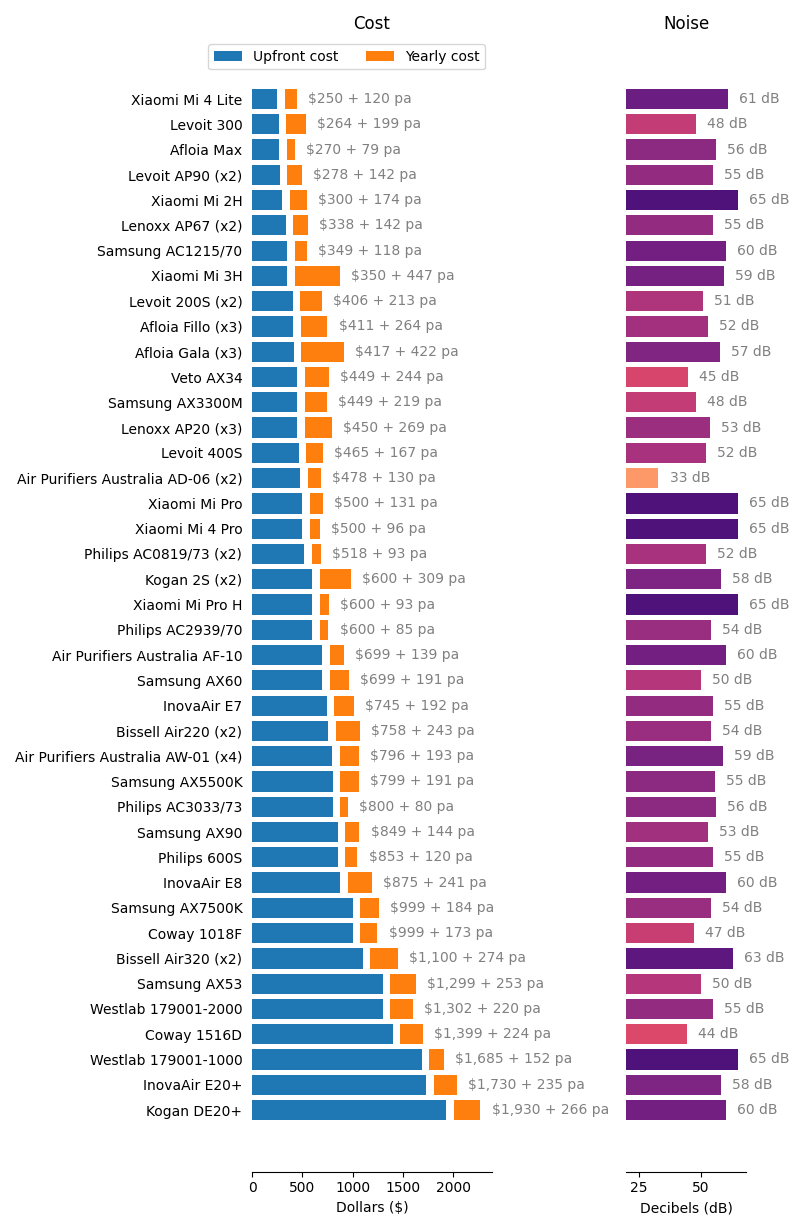
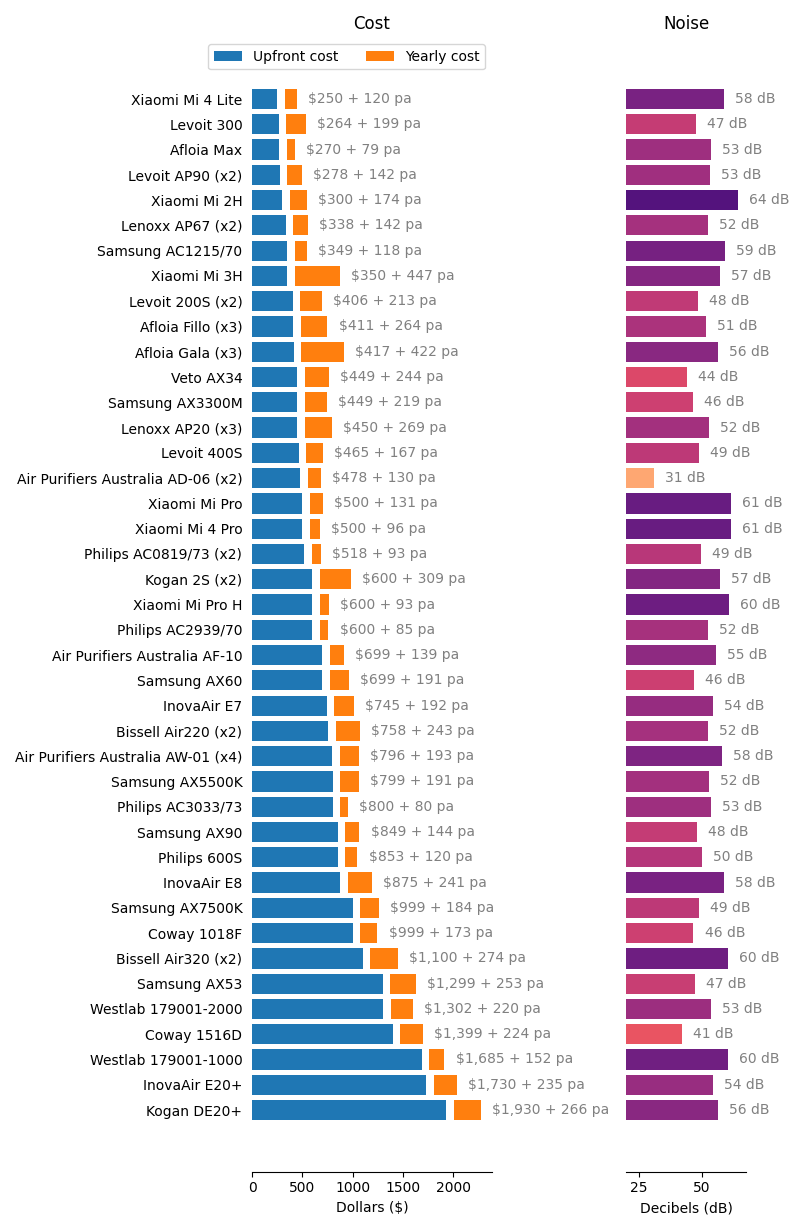
Quick push

diff --git a/aircleaning/analyse.py b/aircleaning/analyse.py
@@ -34,7 +34,7 @@ def cost_analysis(data=None, /, volume='medium', quality='good'):
     data['cost'] *= nunits
     for col in ('power', 'filterchanges'):
         data[col] = data[col] / performance
-    data['noise'] = 10 * np.log10(10 ** (data['noise'] / 10) * nunits)
+    data['noise'] = 10 * np.log10(10 ** (data['noise'] / 10) / performance)
     filtercost = data['filtercost'] * data['filterchanges']
     data = data.drop(['filterchanges', 'filtercost'], axis=1)
     nomcost = float(load.get_parameters().loc['nominal power cost', 'value'])
